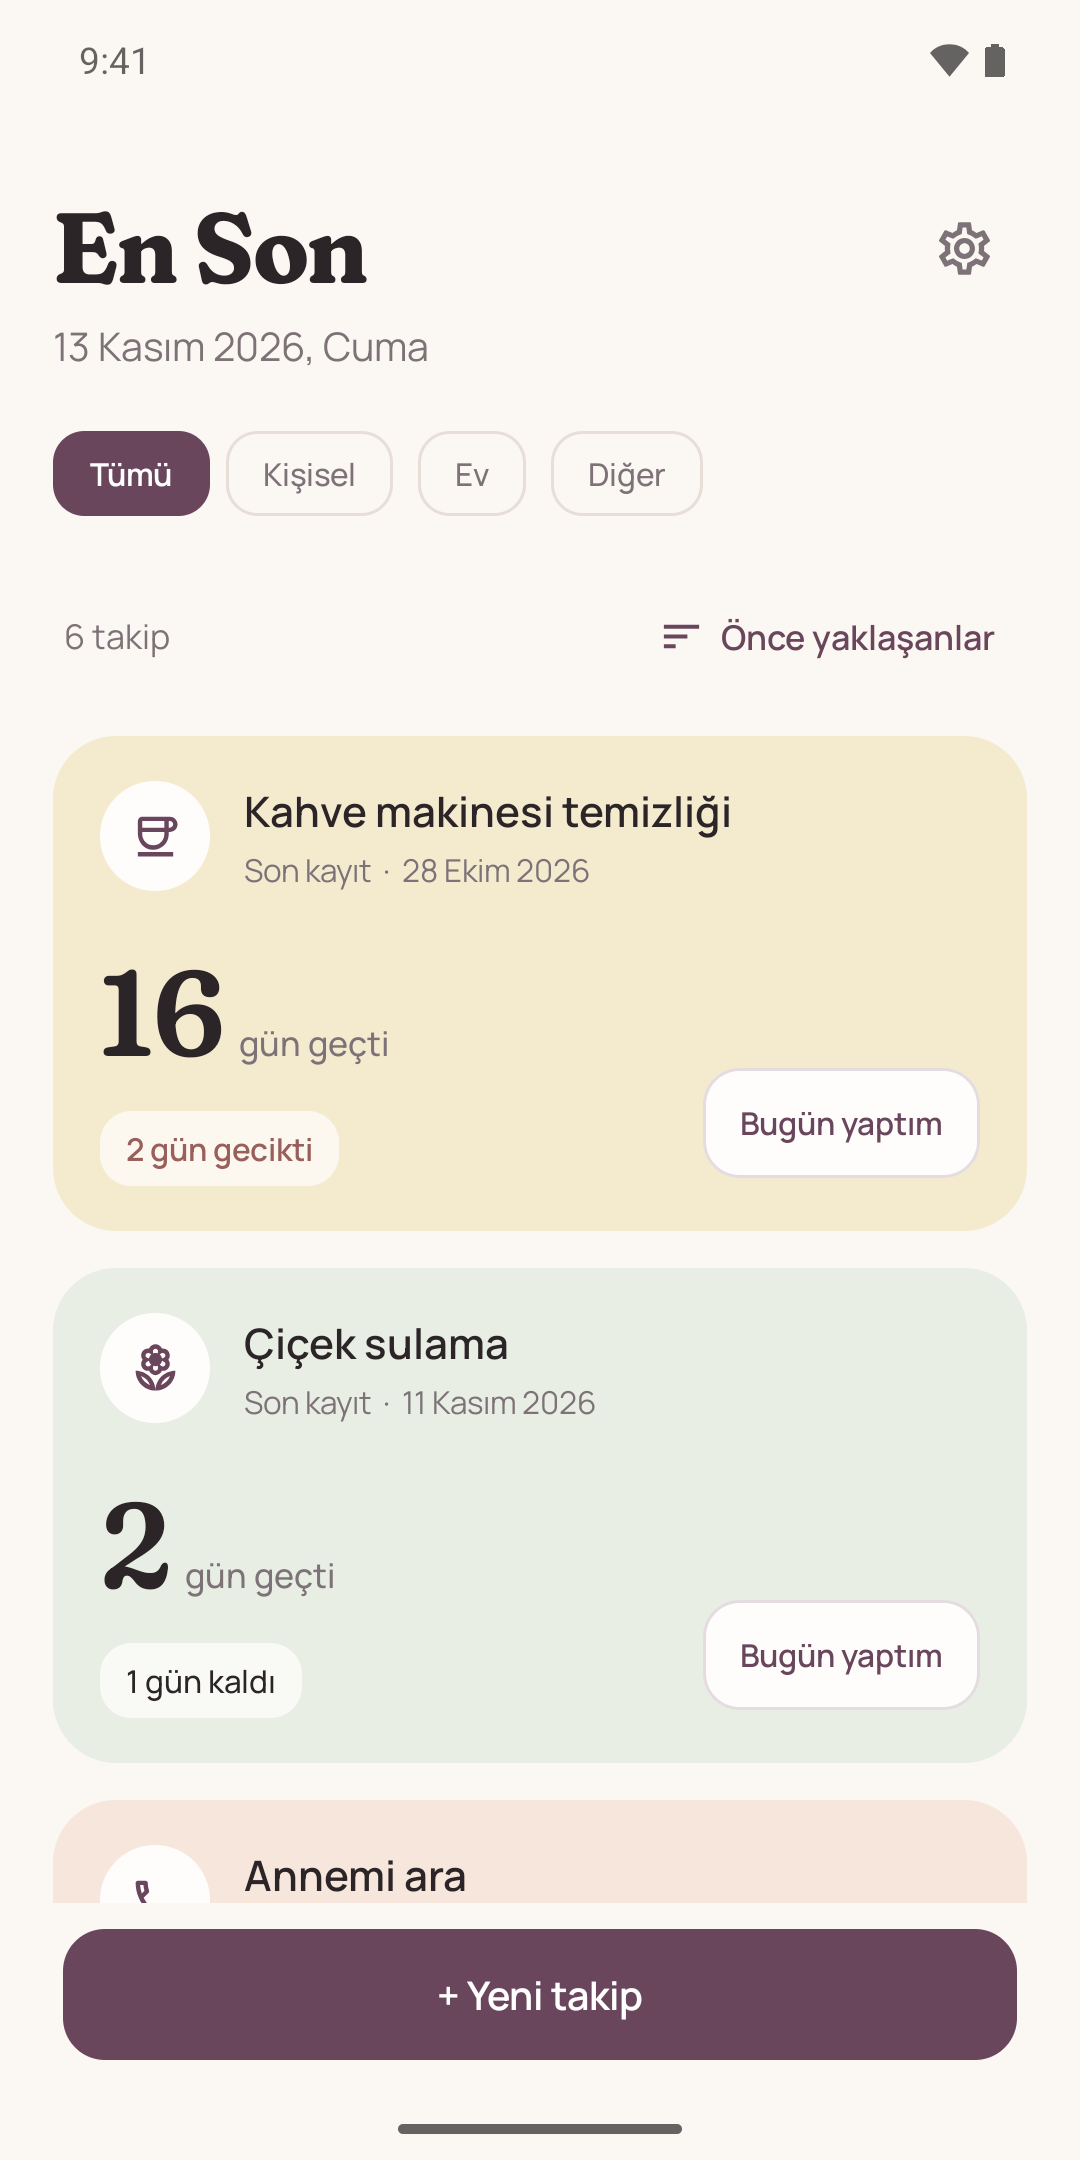
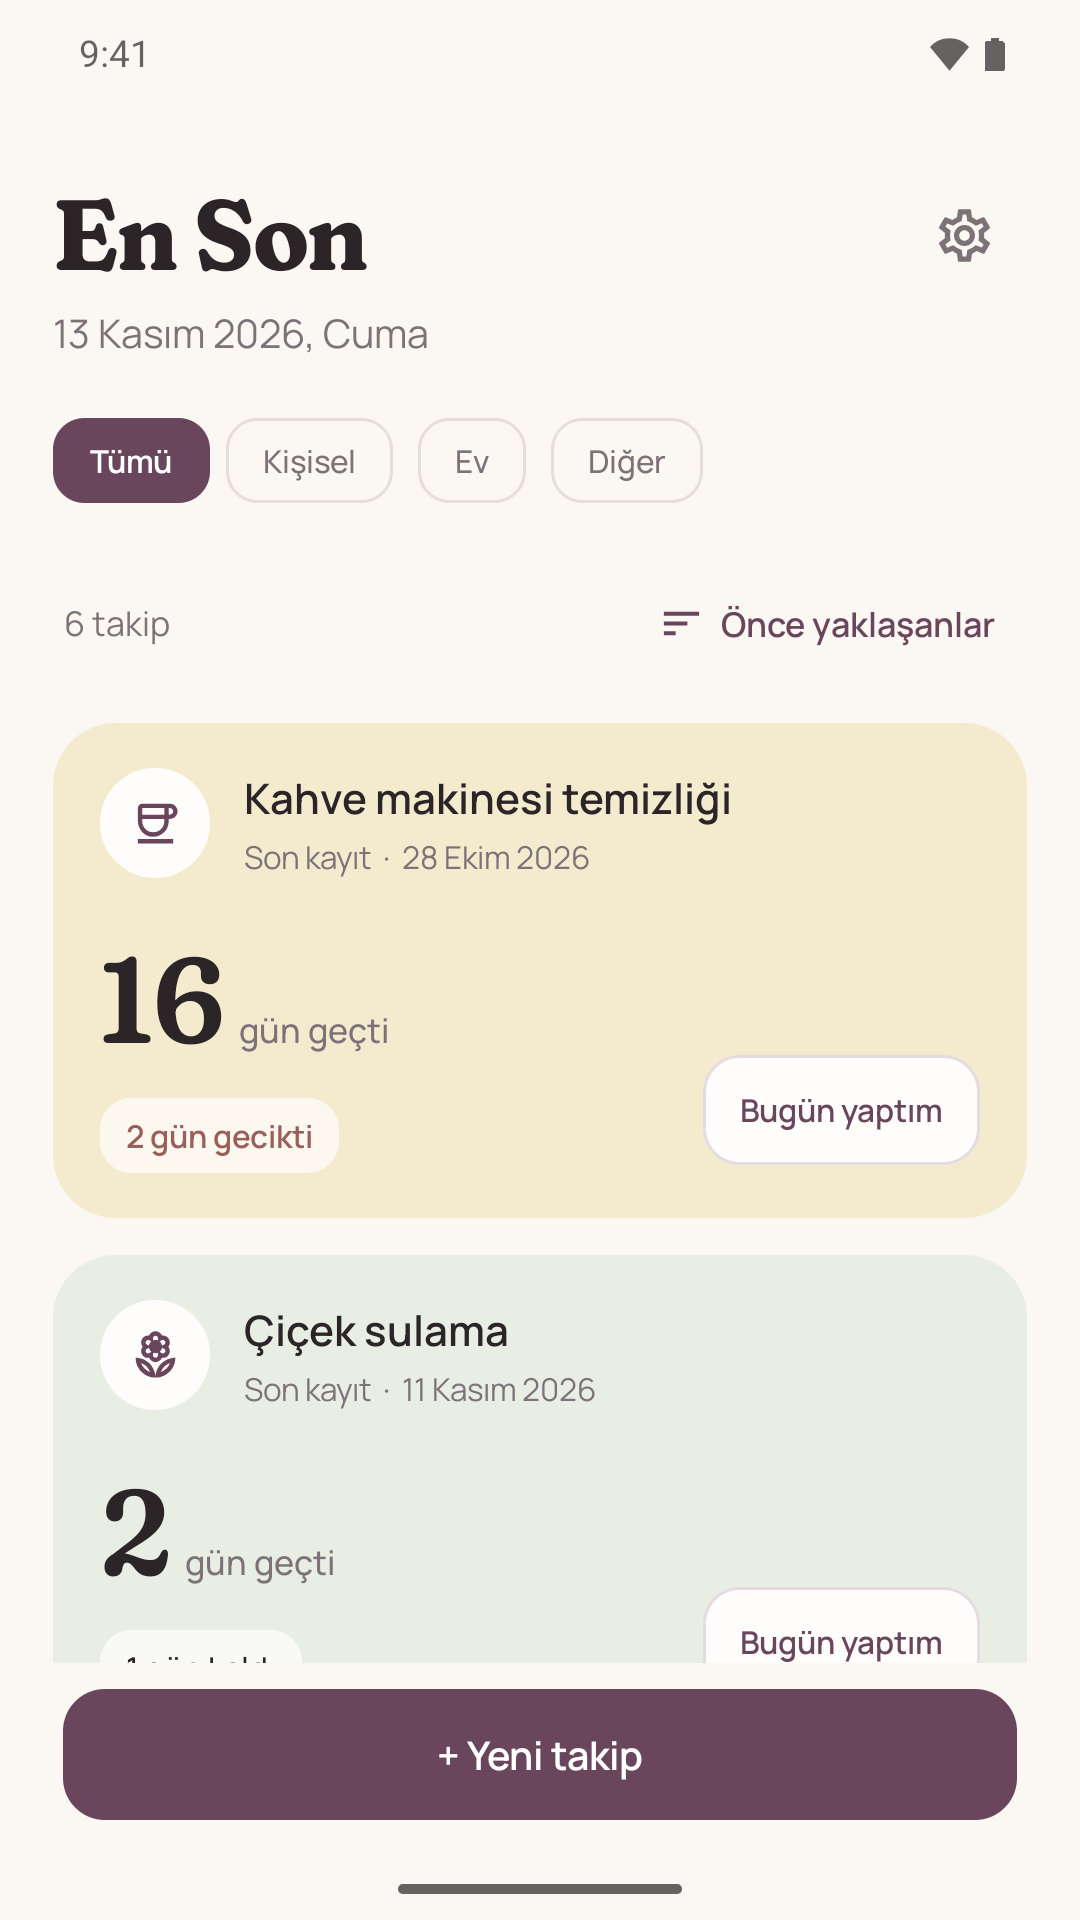
store: 9:16 screenshots, simpler feature graphic tagline

diff --git a/app/src/androidTest/java/com/gencnis/enson/tools/StoreGraphicsGenerator.kt b/app/src/androidTest/java/com/gencnis/enson/tools/StoreGraphicsGenerator.kt
@@ -148,7 +148,7 @@ class StoreGraphicsGenerator {
                 306f
             ),
             Triple(
-                "Ücretsiz · Reklamsız · Veriler telefonunda",
+                "Ücretsiz · Reklamsız",
                 noteTextPaint,
                 358f
             )

diff --git a/store/README.md b/store/README.md
@@ -77,7 +77,7 @@ For every later upload, raise `versionCode` (and usually `versionName`) in
 | --- | --- |
 | App icon 512×512 | `graphics/icon-512.png` |
 | Feature graphic 1024×500 | `graphics/feature-graphic-1024x500.png` |
-| Phone screenshots 1080×2160 | `screenshots/1-ana-ekran.png` … `5-ayarlar.png` |
+| Phone screenshots 1080×1920 (9:16) | `screenshots/1-ana-ekran.png` … `5-ayarlar.png` |
 
 Screenshots were taken on an emulator from a demo backup; no demo data
 ships in the app. The settings screenshot shows the About note, so retake it
